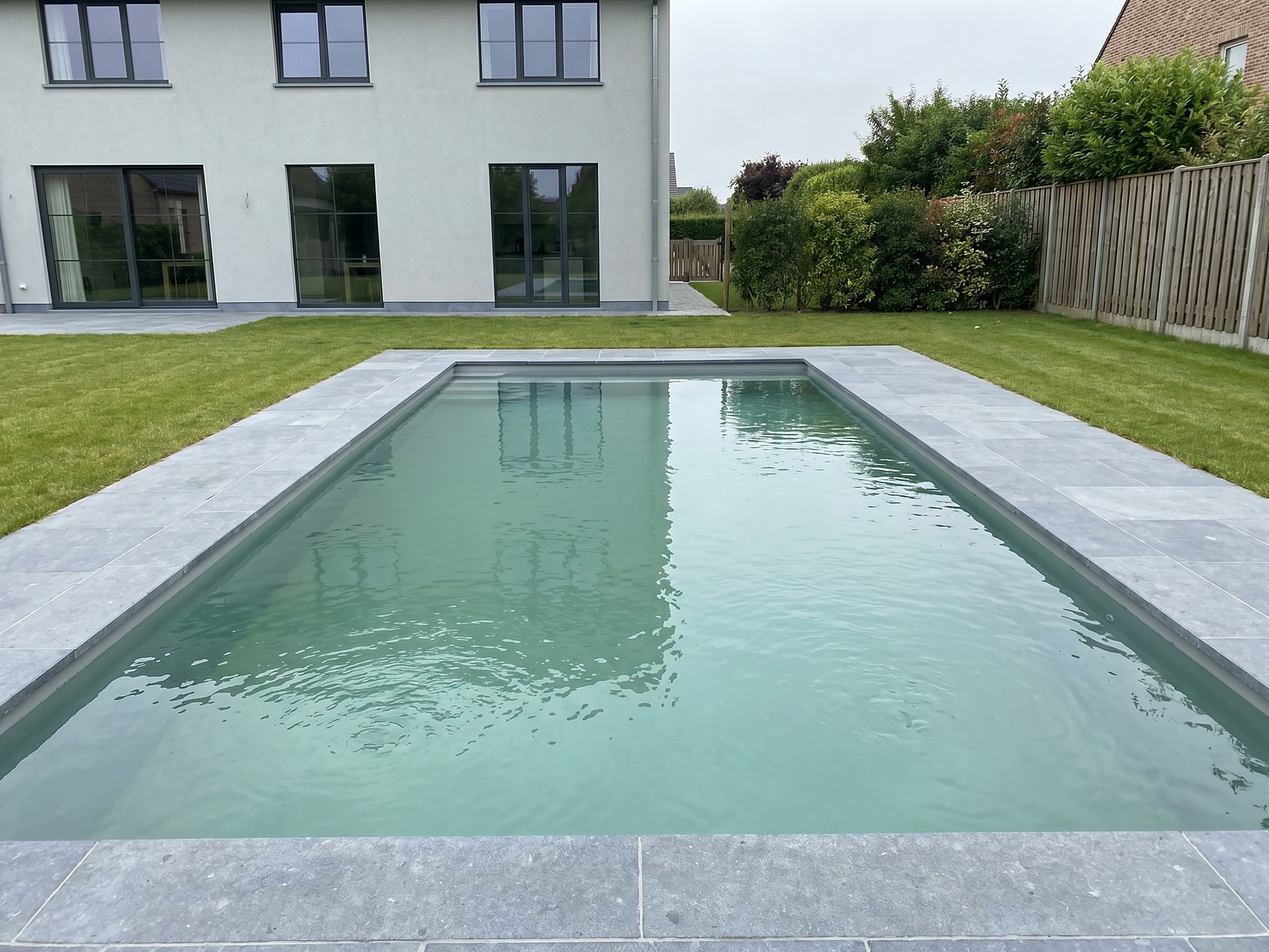
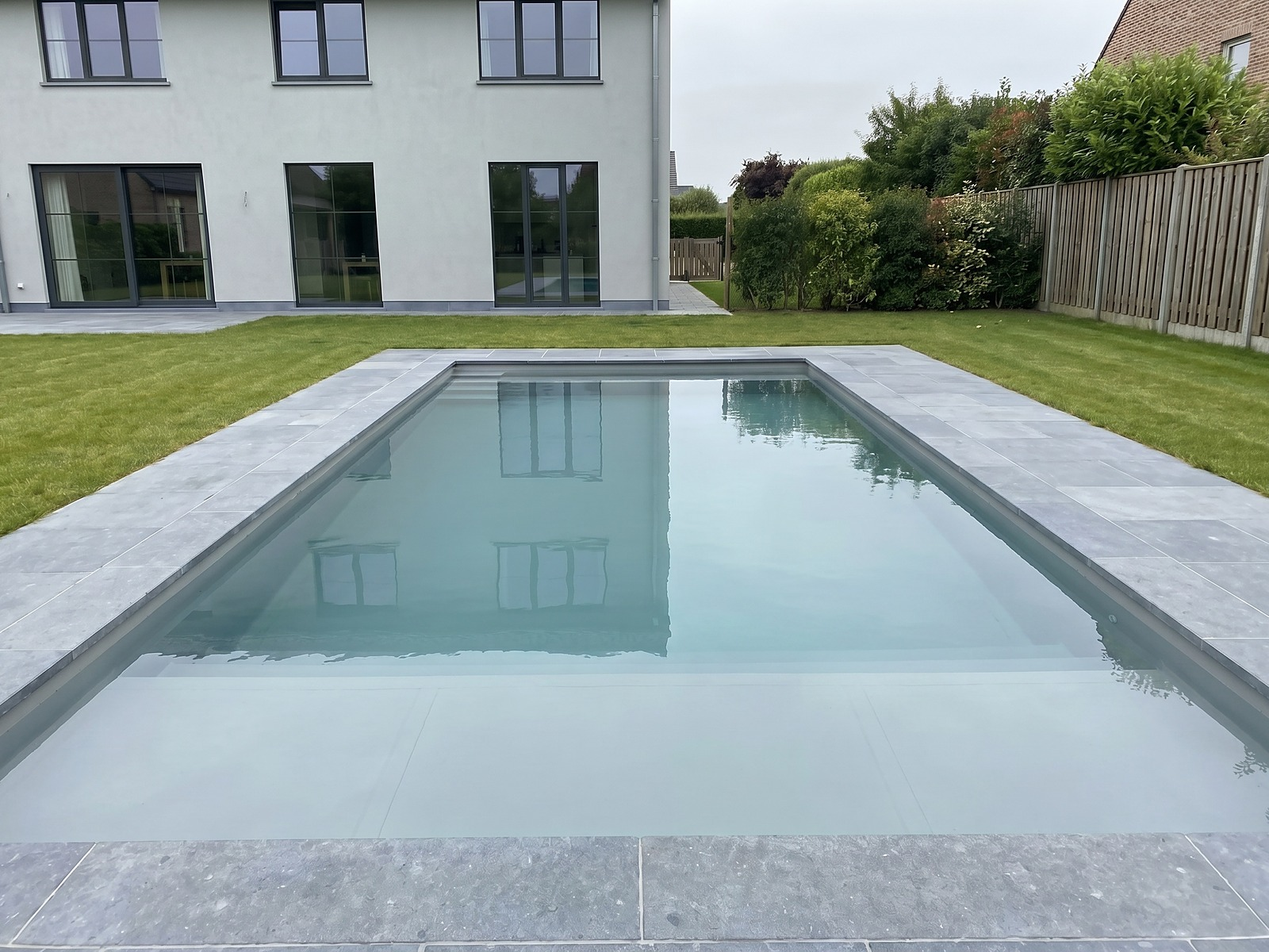
Zwembad-water fysisch correct + totaalrenovatie showpiece-keuken/woning + duidelijke typeWerk-opties op alle 14 LP's
- 6 onafhankelijke analyse-agents convergeerden: het melkig jade-groene water
  was DE AI-tell (grijze liner kan geen groen ondoorzichtig water geven);
  alle 5 gevulde zwembad-shots ge-edit naar zilver-grijsblauw semi-transparant
  water met zichtbare liner-bodem/lasnaden, kalm oppervlak, vaste liner-rand
- totaalrenovatie: kille hoekkeuken vervangen door moderne keuken (kwarts
  eiland, eiken kastenwand, visgraat) + grauwe straatgevel vervangen door
  verse gerenoveerde halfopen woning in vriendelijk licht
- typeWerk-opties op alle 14 dienst-LP's zelfverklarend en professioneel
  (geen jargon zoals 'Sleutel-op-de-deur'/'Sarkingisolatie'/'Impregneren' meer;
  vaste vangoptie 'Iets anders / advies nodig')

Claude-Session: https://claude.ai/code/session_01DeUzJB8V5WQiiC8RXp4aBB

diff --git a/src/pages/abbouw/lp/LpDienst.tsx b/src/pages/abbouw/lp/LpDienst.tsx
@@ -170,7 +170,7 @@ const DIENSTEN: Record<string, Dienst> = {
     gallery: [imgTrG1, imgTrG2, imgTrG3],
     reviews: [{ text: '"We hebben een oude rijwoning volledig laten strippen en heropbouwen. Eén aanspreekpunt voor alles, dat heeft ons enorm veel stress gescheeld. De prijs op de offerte klopte tot op het einde."', name: 'Geert Vandenbussche', role: 'Volledige renovatie rijwoning' }, { text: '"Onze woning uit de jaren zeventig is van binnen helemaal vernieuwd: elektriciteit, sanitair, isolatie en afwerking. Hun eigen ploeg deed het meeste zelf, dat merk je aan de afstemming."', name: 'Annelies Verstraeten', role: 'Totaalrenovatie woning' }, { text: '"Bij het plaatsbezoek kregen we de raad om niet alles ineens te doen, maar de keuken en badkamer een jaar later. Dat scheelde ons een lening. Beide fases liepen volgens de planning die op papier stond."', name: 'Bart Coppens', role: 'Gefaseerde renovatie' }],
     faq: [['Wat kost een totaalrenovatie?', 'Dat hangt sterk af van de staat van de woning, de oppervlakte en de gewenste afwerking. Een totaalrenovatie loopt al snel op, daarom werken wij met een vaste prijs op papier per post. Na het gratis plaatsbezoek weet u exact waar u aan toe bent, en die offerte is meteen uw factuur.'], ['Krijg ik echt één vaste prijs voor alles?', 'Ja. Wij maken één bindende offerte op voor de volledige renovatie, post per post. Wat op de offerte staat, betaalt u, ook als materiaalprijzen ondertussen stijgen. Komen er meerwerken op uw vraag bij, dan bespreken we die vooraf en legt u het vast voor we ze uitvoeren.'], ['Werken jullie met onderaannemers?', 'Het meeste werk doet onze eigen vaste ploeg. Voor zeer specifieke onderdelen werken we soms met vaste partners die we al jaren kennen, maar de coördinatie en het aanspreekpunt blijven altijd bij ons.'], ['Geldt het 6% btw-tarief voor mijn renovatie?', 'Is uw woning ouder dan 10 jaar en blijft ze hoofdzakelijk een privéwoning, dan valt de renovatie via de aannemer doorgaans onder 6% btw op materiaal en arbeid. Wij regelen het bijhorende papierwerk en bekijken bij het plaatsbezoek of u in aanmerking komt.'], ['Hoe lang duurt een totaalrenovatie?', 'Dat verschilt per project, van enkele weken voor een gedeeltelijke renovatie tot enkele maanden voor een volledige woning. Bij de offerte krijgt u een realistische planning, en één aanspreekpunt bewaakt die tijdens de werken.'], ['Kan ik tijdens de werken in mijn woning blijven wonen?', 'Bij een gedeeltelijke renovatie meestal wel. We werken dan per zone en schermen stof zoveel mogelijk af. Bij een volledige renovatie is het vaak praktischer om er even uit te zijn; dat bespreken we eerlijk op het plaatsbezoek, zodat u vooraf weet waar u aan toe bent.'], ['Werken jullie in mijn regio?', 'Wij werken in Mechelen, Antwerpen, Lier, Willebroek, Bornem, Sint-Niklaas en heel Vlaanderen. Bij het gratis plaatsbezoek bevestigen we meteen de planning.']],
-    typeWerkOpties: ['Volledige woning', 'Gedeeltelijke renovatie', 'Sleutel-op-de-deur', 'Anders'],
+    typeWerkOpties: ['Volledige woning renoveren', 'Enkele ruimtes renoveren', 'Renovatie met uitbreiding', 'Iets anders / advies nodig'],
     finalSub: 'Liever eerst overleggen over uw plannen? Bel gerust, dan denken we mee.',
     metaTitle: 'Totaalrenovatie aan vaste prijs | AB Bouw Groep',
     metaDesc: 'Uw woning volledig renoveren met één aannemer, één vaste prijs. Casco tot afwerking, eigen ploeg, 6% btw waar het kan. Gratis plaatsbezoek.',
@@ -205,7 +205,7 @@ const DIENSTEN: Record<string, Dienst> = {
     gallery: [imgBkG1, imgBkG2, imgBkG3],
     reviews: [{ text: '"Onze badkamer uit de jaren negentig volledig vernieuwd. Bad eruit, ruime inloopdouche erin. Eén ploeg voor alles, en de prijs klopte met de offerte."', name: 'Greet Janssens', role: 'Volledige badkamerrenovatie' }, { text: '"We twijfelden of we het bad zouden houden, maar ze toonden met de maten dat een douche de kleine ruimte een pak groter laat voelen. Achteraf blij dat we geluisterd hebben. Het toilet schoof mee een halve meter op, alles strak aangesloten."', name: 'Peter Maes', role: 'Bad vervangen door douche' }, { text: '"Vaste prijs vooraf, geen verrassingen achteraf. De leidingen zaten verouderd, ze hebben dat meteen mee opgelost. Heel tevreden."', name: 'Linda Verbeeck', role: 'Inloopdouche op maat' }],
     faq: [['Wat kost een badkamerrenovatie?', 'Dat hangt af van de oppervlakte, het sanitair, de tegels en de staat van de leidingen. Een complete badkamer ligt doorgaans tussen 9.000 en 18.000 euro. U krijgt een vaste prijs na het gratis plaatsbezoek; wat op de offerte staat, betaalt u.'], ['Hoe lang duurt een badkamerrenovatie?', 'Een volledige badkamer is doorgaans in twee tot drie weken klaar, afhankelijk van de omvang en de droogtijden. Bij het plaatsbezoek geven we u een realistische planning.'], ['Doen jullie alles zelf of met onderaannemers?', 'Alles met onze eigen vaste ploeg. Sanitair, tegelwerk en leidingen zitten in één hand, met één aanspreekpunt van begin tot oplevering.'], ['Kan ik mijn bad laten vervangen door een inloopdouche?', 'Ja, dat is een van de meest gevraagde renovaties. Wij halen het bad eruit, passen de leidingen en de afvoer aan en plaatsen een waterdichte inloopdouche.'], ['Betaal ik 6% of 21% btw?', 'Is uw woning ouder dan 10 jaar, dan valt de renovatie inclusief plaatsing meestal onder 6% btw. Wij bekijken of u in aanmerking komt en regelen het papierwerk.'], ['Kan ik mijn badkamer nog gebruiken tijdens de werken?', 'Bij een volledige renovatie ligt de badkamer een aantal dagen stil, van het uitbreken tot het sanitair terug aangesloten is. Heeft u maar één badkamer, zeg dat op het plaatsbezoek: we plannen het toilet en een werkende douche dan als eerste opnieuw aan, zodat u zo weinig mogelijk dagen zonder zit.'], ['Werken jullie in mijn regio?', 'Wij werken in Mechelen, Antwerpen, Lier, Willebroek, Bornem, Sint-Niklaas en heel Vlaanderen. Bij het gratis plaatsbezoek bevestigen we meteen de planning.']],
-    typeWerkOpties: ['Volledige badkamer', 'Inloopdouche', 'Bad vervangen door douche', 'Anders'],
+    typeWerkOpties: ['Volledige badkamer renoveren', 'Inloopdouche plaatsen', 'Bad vervangen door douche', 'Iets anders / advies nodig'],
     finalSub: 'Liever eerst iemand aan de lijn? Bel gerust.',
     metaTitle: 'Badkamerrenovatie aan vaste prijs | AB Bouw Groep',
     metaDesc: 'Badkamer laten renoveren in Vlaanderen: sanitair, tegels, douche en leidingen door één ploeg. Vaste prijs vooraf, 6% btw waar het kan. Gratis plaatsbezoek.',
@@ -240,7 +240,7 @@ const DIENSTEN: Record<string, Dienst> = {
     gallery: [imgTgG1, imgTgG2, imgTgG3],
     reviews: [{ text: '"Volledige woonkamer in grootformaat tegels. Kaarsrecht gelegd en strak gevoegd. Mooi resultaat."', name: 'Marc Hermans', role: 'Vloertegels woonkamer' }, { text: '"Badkamer volledig betegeld, vloer en wanden. Netjes afgewerkt rond de kranen en strak doorgevoegd. Heel tevreden."', name: 'Liesbeth Coninckx', role: 'Badkamer betegeld' }, { text: '"Goed advies over het legpatroon, ze hebben echt meegedacht. Keuken en hal in één lijn doorgelegd. Mooi gedaan."', name: 'Patrick Goossens', role: 'Keuken- en vloertegels' }],
     faq: [['Wat kost tegels leggen per m²?', 'Dat hangt af van het formaat, het legpatroon en de staat van de ondergrond. U krijgt een vaste prijs per m² na het gratis plaatsbezoek.'], ['Leggen jullie ook grootformaat en XXL-tegels?', 'Ja. Grote formaten lijmen we in volvlak, zodat er geen holle plekken onder de tegel zitten. Dat vraagt een vlakke ondergrond, die bereiden we correct voor.'], ['Moet de ondergrond eerst worden voorbereid?', 'Meestal wel. Een vlakke, draagkrachtige ondergrond is de basis voor een strak resultaat. Bij het plaatsbezoek beoordelen we of egaliseren nodig is.'], ['Geldt het 6% btw-tarief voor tegelwerken?', 'Bij een woning ouder dan 10 jaar valt tegelwerk incl. plaatsing en materiaal via ons onder het 6% renovatietarief. Bij nieuwbouw is dat 21%. Dat papierwerk regelen wij.'], ['Plaatsen jullie ook de tegels die ik zelf gekozen heb?', 'Ja. U kiest de tegels in de showroom, wij verzorgen de plaatsing. We adviseren gerust over formaat en legpatroon zodat alles strak uitkomt.'], ['Werken jullie in mijn regio?', 'Wij werken in Mechelen, Antwerpen, Lier, Willebroek, Bornem, Sint-Niklaas en heel Vlaanderen.']],
-    typeWerkOpties: ['Vloertegels', 'Wandtegels', 'Grootformaat / XXL', 'Anders'],
+    typeWerkOpties: ['Vloertegels leggen', 'Wandtegels plaatsen', 'Grootformaat tegels (60x60 of groter)', 'Iets anders / advies nodig'],
     finalSub: 'Praat met één van onze projectleiders.',
     metaTitle: 'Tegels laten leggen aan vaste prijs | AB Bouw Groep',
     metaDesc: 'Vloer- en wandtegels laten leggen in Vlaanderen, ook grootformaat. Vlak gelegd, strak gevoegd, vaste prijs per m². Eigen ploeg. Gratis plaatsbezoek.',
@@ -276,7 +276,7 @@ const DIENSTEN: Record<string, Dienst> = {
     gallery: [imgPlG1, imgPlG2, imgPlG3],
     reviews: [{ text: '"Heel het benedenverdiep opnieuw laten pleisteren. Strak en vlak, geen oneffenheden. En alles netjes afgeplakt voor ze begonnen."', name: 'Wim Heylen', role: 'Wanden en plafonds gepleisterd' }, { text: '"Voor de nieuwe slaapkamers een gyproc voorzetwand laten plaatsen en alles mee gepleisterd. Vaste prijs vooraf, geen verrassingen achteraf."', name: 'Annelies Maes', role: 'Gyproc + pleisterwerk' }, { text: '"Plafond in de living zat vol haarscheuren door de oude pleister. Ze raadden af om er gewoon over te schilderen en hebben het volledig uitgevlakt en herpleisterd. Een halfjaar later nog altijd geen barst te zien."', name: 'Geert Vermeiren', role: 'Plafond pleisteren' }],
     faq: [['Wat kost pleisterwerk per m²?', 'Dat hangt af van de oppervlakte, de staat van de ondergrond en de gewenste afwerking. U krijgt een vaste prijs per m² na het gratis plaatsbezoek. Wat op de offerte staat, betaalt u.'], ['Doen jullie ook gyproc en voorzetwanden?', 'Ja. Wij plaatsen gipsplaten, scheidingswanden en voorzetwanden, en pleisteren ze meteen af. Pleisterwerk en gyproc liggen zo bij dezelfde ploeg.'], ['Valt pleisterwerk onder 6% btw?', 'Bij een woning ouder dan 10 jaar valt pleisterwerk en gyproc onder het 6% renovatietarief. Bij nieuwbouw is dat 21%. Wij regelen het bijhorende papierwerk.'], ['Hoe lang moet de pleister drogen?', 'Vers pleisterwerk droogt doorgaans enkele weken, afhankelijk van de dikte en de ventilatie. Pas daarna schildert u best. Wij zeggen u bij de oplevering wanneer de muur schilderklaar is.'], ['Kan ik er meteen op schilderen?', 'Nee, laat de pleister eerst volledig uitdrogen. Daarna is de wand vlak en klaar voor de verf, zonder extra uitvlakwerk.'], ['Geeft pleisteren veel stof in een bewoond huis?', 'Pleisteren zelf is nat werk en stuift weinig; het stof komt vooral van het opruwen, schuren en uitkappen vooraf. Daarom dekken we de vloer en alles wat blijft staan af en zetten we de werkzone met folie dicht naar de rest van het huis. Op het einde van elke werkdag halen we het grove stof weg. Werken we in een bewoonde woning, ruim de kamer dan zoveel mogelijk leeg; dan blijft het stof beperkt tot die ene ruimte.'], ['Werken jullie in mijn regio?', 'Wij werken in Mechelen, Antwerpen, Lier, Willebroek, Bornem, Sint-Niklaas en heel Vlaanderen.']],
-    typeWerkOpties: ['Wanden pleisteren', 'Plafond pleisteren', 'Gyproc / voorzetwand', 'Anders'],
+    typeWerkOpties: ['Wanden pleisteren', 'Plafond pleisteren', 'Gyproc- of voorzetwand plaatsen', 'Iets anders / advies nodig'],
     finalSub: 'Praat met één van onze projectleiders.',
     metaTitle: 'Pleisterwerk & gyproc, vaste prijs | AB Bouw Groep',
     metaDesc: 'Pleisterwerk en gyproc in Vlaanderen. Wanden en plafonds vlak afgewerkt, vaste prijs per m², eigen ploeg. 6% btw waar het kan. Gratis plaatsbezoek.',
@@ -311,7 +311,7 @@ const DIENSTEN: Record<string, Dienst> = {
     gallery: [imgTeG1, imgTeG2, imgTeG3],
     reviews: [{ text: '"Nieuw terras in keramische tegels, mooi vlak. Na een regenbui staat er nergens nog een plas. Proper opgeleverd."', name: 'Dries Luyckx', role: 'Keramisch terras' }, { text: '"Terras in blauwsteen laten aanleggen. Mooi vlak gelegd en het water loopt netjes weg. Heel content met het resultaat."', name: 'Nadine Peeters', role: 'Natuursteen terras' }, { text: '"Oud terras vervangen door een houten terras. Strak gelegd en klaar binnen de afgesproken week. Heel tevreden."', name: 'Wim Claessens', role: 'Houten terras' }],
     faq: [['Wat kost een terras aanleggen per m²?', 'Dat hangt af van het materiaal, de grootte, de ondergrond en de afwatering. U krijgt een vaste prijs per m² na het gratis plaatsbezoek.'], ['Welk materiaal kies ik best?', 'Keramiek hoeft u enkel te dweilen, natuursteen leeft mee met uw gevel, klinkers passen bij een landelijke tuin en hout vraagt jaarlijks een olie-beurt. Bij het plaatsbezoek bekijken we samen wat bij uw tuin en budget past.'], ['Leggen jullie ook de fundering en afwatering?', 'Ja. Wij verzorgen het grondwerk, de fundering en het juiste afschot, zodat uw terras vlak ligt en regenwater goed wegloopt.'], ['Kunnen jullie mijn oude terras vervangen?', 'Ja. We breken het oude terras uit, bereiden de ondergrond opnieuw voor en leggen uw nieuwe terras aan.'], ['Geldt het 6% btw-tarief voor mijn terras?', 'Bij een woning ouder dan 10 jaar valt het terras meestal onder 6% btw op arbeid en materiaal. Bij nieuwbouw of een woning jonger dan 10 jaar is dat 21%. We bekijken het samen.'], ['Wat gebeurt er met de uitgegraven grond en het puin?', 'Bij het uitgraven en bij het uitbreken van een oud terras komen grond en puin vrij. Wij voeren dat zelf af; de afvoer en de containers zitten in de offerteprijs. Tijdens de werken stapelen we de materialen op één plek in de tuin, en bij de oplevering harken we de werkzone proper aan.'], ['Werken jullie in mijn regio?', 'Wij werken in Mechelen, Antwerpen, Lier, Willebroek, Bornem, Sint-Niklaas en heel Vlaanderen.']],
-    typeWerkOpties: ['Keramisch terras', 'Natuursteen terras', 'Terras in klinkers', 'Houten terras'],
+    typeWerkOpties: ['Keramisch terras', 'Terras in natuursteen', 'Terras in klinkers of hout', 'Iets anders / advies nodig'],
     finalSub: 'Praat met één van onze projectleiders.',
     metaTitle: 'Terras aanleggen — vaste prijs | AB Bouw Groep',
     metaDesc: 'Terras aanleggen in keramiek, natuursteen, klinkers of hout. Correcte fundering en afwatering. Vaste prijs per m², eigen ploeg. Gratis plaatsbezoek.',
@@ -346,7 +346,7 @@ const DIENSTEN: Record<string, Dienst> = {
     gallery: [imgOpG1, imgOpG2, imgOpG3],
     reviews: [{ text: '"Onze oude oprit was helemaal verzakt. Alles opnieuw aangelegd en twee winters later ligt er nog geen klinker scheef. Top."', name: 'Bram Verschueren', role: 'Oprit vernieuwd' }, { text: '"Voor waterdoorlatende klinkers gekozen op hun advies. Geen plassen meer en regenwater zakt gewoon weg. Vaste prijs vooraf, nette ploeg."', name: 'Annelies Peeters', role: 'Waterdoorlatende oprit' }, { text: '"Nieuwe oprit in betonklinkers, strak gelegd. Een groot verschil met de oude die overal verzakt was. Heel tevreden."', name: 'Patrick Wouters', role: 'Oprit in betonklinkers' }],
     faq: [['Wat kost een oprit aanleggen?', 'Dat hangt af van de oppervlakte, het materiaal en de bestaande ondergrond. U krijgt een vaste prijs voor de volledige oprit na het gratis plaatsbezoek, fundering en afboording inbegrepen.'], ['Klinkers of waterdoorlatende verharding?', 'Klinkers en betonklinkers zijn strak en onderhoudsarm. Waterdoorlatende verharding laat regenwater in de bodem zakken, wat wateroverlast beperkt. Bij het plaatsbezoek adviseren we wat past bij uw oprit en ondergrond.'], ['Hoe lang gaat een oprit mee?', 'Met een goede fundering en afwatering gaat een oprit doorgaans decennia mee zonder te verzakken. De onderbouw is daarbij belangrijker dan de klinker zelf.'], ['Verzakt een oprit na verloop van tijd?', 'Niet als de fundering klopt. Verzakking komt bijna altijd door een te dunne of slecht aangereden onderbouw. Daarom besteden wij daar de meeste aandacht aan.'], ['Betaal ik 6 of 21% btw op een oprit?', 'Een losstaande oprit valt meestal onder 21% btw. Maakt de oprit deel uit van een renovatie van een woning ouder dan 10 jaar, dan kan 6% gelden. Wij bekijken het tarief samen op het plaatsbezoek.'], ['Kan ik mijn auto kwijt terwijl de oprit openligt?', 'Tijdens het uitgraven en de eerste dagen kunt u niet over de oprit rijden, en pas helemaal op het einde mag u opnieuw op de verse klinkers. Reken op enkele dagen waarin u de wagen elders zet, op straat of bij een buur. We bespreken de planning vooraf, zodat u weet welke dagen het zijn en uw auto niet ingesloten raakt.'], ['Werken jullie in mijn regio?', 'Wij werken in Mechelen, Antwerpen, Lier, Willebroek, Bornem, Sint-Niklaas en heel Vlaanderen.']],
-    typeWerkOpties: ['Nieuwe oprit', 'Oprit vernieuwen', 'Waterdoorlatend', 'Anders'],
+    typeWerkOpties: ['Nieuwe oprit aanleggen', 'Bestaande oprit vernieuwen', 'Waterdoorlatende oprit', 'Iets anders / advies nodig'],
     finalSub: 'Praat met één van onze projectleiders.',
     metaTitle: 'Oprit aanleggen — vaste prijs | AB Bouw Groep',
     metaDesc: 'Oprit aanleggen of vernieuwen in Vlaanderen: klinkers, betonklinkers of waterdoorlatend, stabiele fundering. Vaste prijs, eigen ploeg. Gratis plaatsbezoek.',
@@ -381,7 +381,7 @@ const DIENSTEN: Record<string, Dienst> = {
     gallery: [imgZwG1, imgZwG2, imgZwG3],
     reviews: [{ text: '"Inbouwzwembad in beton in onze tuin. Graafwerk, bad en terras errond, alles door dezelfde ploeg. Netjes geregeld van begin tot eind."', name: 'Koen De Coninck', role: 'Betonnen inbouwzwembad' }, { text: '"Wij twijfelden tussen beton en polyester. Eerlijk advies dat een polyester bad voor onze tuin volstond, scheelde flink in prijs. Netjes geplaatst."', name: 'Veerle Cools', role: 'Polyester zwembad' }, { text: '"Vaste prijs voor het hele project vooraf, van uitgraving tot terras. Geen verrassingen achteraf, werf elke dag proper. Heel tevreden."', name: 'Filip Smets', role: 'Zwembad met terras' }],
     faq: [['Wat kost een zwembad aanleggen?', 'Dat hangt af van de afmetingen, het type bad (beton of polyester), de grondsoort en de afwerking errond. Een inbouwzwembad is een groot project; u krijgt een vaste prijs voor het volledige werk na het gratis plaatsbezoek.'], ['Beton of polyester: wat kies ik?', 'Een betonnen bad is volledig op maat en in elke vorm mogelijk. Een polyester bad komt in één stuk en is sneller geplaatst, maar in vaste modellen. Bij het plaatsbezoek adviseren we eerlijk wat past bij uw tuin en budget.'], ['Doen jullie ook het graafwerk en het terras?', 'Ja. Wij verzorgen het volledige project met eigen ploeg: uitgraving, fundering, leidingen, het bad zelf en de afwerking met boordstenen en terras errond.'], ['Hoe lang duurt de aanleg?', 'Dat verschilt per project. Een polyester bad gaat sneller dan een gestort betonnen bad, en de afwerking errond telt mee. Bij de offerte krijgt u een realistische planning op papier.'], ['Welk btw-tarief geldt er?', 'Voor een nieuw zwembad is dat niet automatisch het verlaagde tarief. Bij het plaatsbezoek bekijken we welk btw-tarief in uw situatie van toepassing is, zodat u vooraf weet waar u aan toe bent.'], ['Moet er een graafmachine door mijn tuin, en wat met de schade?', 'Voor de uitgraving moet er inderdaad een kraan tot bij de plek van het bad. Op het plaatsbezoek kijken we eerst hoe we binnen geraken: langs welke kant, of er een poort of haag tijdelijk weg moet, en of we het tuinpad moeten beschermen. Het rijtracé en de stockplek voor de grond rekenen we als onbruikbaar voor de duur van de werken; gazon of beplanting daar herstellen we nadien niet automatisch, dus wat u zelf wil sparen, spreken we vooraf af.'], ['Werken jullie in mijn regio?', 'Wij werken in Mechelen, Antwerpen, Lier, Willebroek, Bornem, Sint-Niklaas en heel Vlaanderen.']],
-    typeWerkOpties: ['Betonnen zwembad', 'Polyester zwembad', 'Zwembad met terras', 'Anders'],
+    typeWerkOpties: ['Betonnen zwembad (op maat)', 'Polyester zwembad (monoblok)', 'Zwembad met terras errond', 'Iets anders / advies nodig'],
     finalSub: 'Vragen over beton, polyester of de planning? Bel ons even.',
     metaTitle: 'Zwembad laten aanleggen aan vaste prijs | AB Bouw Groep',
     metaDesc: 'Inbouwzwembad laten aanleggen in Vlaanderen: beton of polyester, graafwerk tot afwerking, terras errond. Vaste prijs, eigen ploeg. Gratis plaatsbezoek.',
@@ -444,7 +444,7 @@ const DIENSTEN: Record<string, Dienst> = {
       ['Krijg ik garantie op de plaatsing?', 'Ja. U krijgt 10 jaar garantie op de waterdichtheid van de plaatsing, bovenop de fabrieksgarantie van Velux op het raam zelf.'],
       ['Werken jullie in mijn regio?', 'Wij werken in heel Vlaanderen, met de meeste werven rond Antwerpen, Mechelen en Lier. Bij de gratis opmeting bevestigen we meteen de planning.'],
     ],
-    typeWerkOpties: ['Nieuw dakraam', 'Vervanging', 'Meerdere ramen', 'Anders'],
+    typeWerkOpties: ['Nieuw dakraam plaatsen', 'Bestaand dakraam vervangen', 'Meerdere dakramen', 'Iets anders / advies nodig'],
     finalSub: 'Liever eerst iemand aan de lijn? Bel gerust.',
     metaTitle: 'Velux dakraam laten plaatsen aan vaste prijs | AB Bouw Groep',
     metaDesc: 'Velux dakramen plaatsen en vervangen in Vlaanderen. Vaste prijs incl. plaatsing en binnenafwerking, 10 jaar garantie op waterdichtheid. Gratis opmeting.',
@@ -504,7 +504,7 @@ const DIENSTEN: Record<string, Dienst> = {
       ['Hoe lang blijft mijn gevel proper?', 'Met een impregnatie blijft uw gevel jaren langer schoon. Zonder hangt het af van de ligging en de begroeiing rond de woning.'],
       ['Werken jullie in mijn regio?', 'Wij werken in Mechelen, Antwerpen, Lier, Willebroek en heel Vlaanderen.'],
     ],
-    typeWerkOpties: ['Gevelreiniging', 'Impregneren', 'Mosbestrijding', 'Anders'],
+    typeWerkOpties: ['Gevel laten reinigen', 'Reinigen en impregneren (beschermlaag)', 'Mos en groene aanslag verwijderen', 'Iets anders / advies nodig'],
     finalSub: 'Praat met één van onze projectleiders.',
     metaTitle: 'Gevelreiniging — zonder schade aan uw gevel | AB Bouw Groep',
     metaDesc: 'Professionele gevelreiniging in Vlaanderen. Juiste methode per gevelsteen, geen schade aan de voegen, optioneel impregneren. Gratis plaatsbezoek.',
@@ -578,7 +578,7 @@ const DIENSTEN: Record<string, Dienst> = {
       ['Moet de hele gevel hervoegd worden?', 'Niet altijd. Soms volstaat een deel van de gevel. Bij het plaatsbezoek bekijken we wat echt nodig is.'],
       ['Werken jullie in mijn regio?', 'Wij werken in Mechelen, Antwerpen, Lier, Willebroek en heel Vlaanderen.'],
     ],
-    typeWerkOpties: ['Volledige gevel', 'Gedeeltelijk', 'Herstel voegen', 'Anders'],
+    typeWerkOpties: ['Volledige gevel hervoegen', 'Deel van de gevel hervoegen', 'Beschadigde voegen herstellen', 'Iets anders / advies nodig'],
     finalSub: 'Praat met één van onze projectleiders.',
     metaTitle: 'Gevel hervoegen — uitslijpen en voegen | AB Bouw Groep',
     metaDesc: 'Gevel laten hervoegen in Vlaanderen. Oude voegen uitslijpen, opnieuw voegen in de juiste kleur. Vaste prijs per m², eigen ploeg. Gratis plaatsbezoek.',
@@ -641,7 +641,7 @@ const DIENSTEN: Record<string, Dienst> = {
       ['Hoeveel bespaar ik?', 'U voelt het vooral in de stookkost: een geïsoleerd dak houdt de warmte binnen die nu langs boven verdwijnt. Bij de offerte krijgt u de verwachte EPC-winst op papier.'],
       ['Werken jullie in mijn regio?', 'Wij werken in Mechelen, Antwerpen, Lier, Willebroek en heel Vlaanderen.'],
     ],
-    typeWerkOpties: ['Sarkingisolatie', 'Tussen de balken', 'Zoldervloer', 'Anders'],
+    typeWerkOpties: ['Dak isoleren langs buiten (sarking)', 'Dak isoleren langs binnen', 'Zoldervloer isoleren', 'Iets anders / advies nodig'],
     finalSub: 'Vragen over sarking, premies of planning? Bel ons even.',
     metaTitle: 'Dakisolatie laten plaatsen met vaste prijs | AB Bouw Groep',
     metaDesc: 'Dakisolatie in Vlaanderen: sarking, tussen de balken of zoldervloer. Lager EPC, lagere stookkost, 6% btw waar het kan. Vaste prijs en gratis dakinspectie.',
@@ -702,7 +702,7 @@ const DIENSTEN: Record<string, Dienst> = {
       ['Kan de isolatie mee vernieuwd worden?', 'Ja. Bij een nieuw of vernieuwd plat dak isoleren we meteen volgens de huidige normen.'],
       ['Werken jullie in mijn regio?', 'Wij werken in heel Vlaanderen, met de meeste werven rond Antwerpen, Mechelen en Lier. Bij het gratis plaatsbezoek bevestigen we meteen de planning.'],
     ],
-    typeWerkOpties: ['Nieuw plat dak', 'Renovatie', 'Met isolatie', 'Anders'],
+    typeWerkOpties: ['Nieuw plat dak plaatsen', 'Bestaand plat dak vernieuwen', 'Plat dak vernieuwen met isolatie', 'Iets anders / advies nodig'],
     finalSub: 'Twijfelt u tussen EPDM en roofing? Bel ons, dan denken we mee.',
     metaTitle: 'Plat dak laten leggen — EPDM of roofing | AB Bouw Groep',
     metaDesc: 'Plat dak voor aanbouw, garage of bijgebouw: EPDM naadloos of bewezen roofing, geïsoleerd en met 10 jaar garantie op de waterdichtheid. Gratis plaatsbezoek.',
@@ -763,7 +763,7 @@ const DIENSTEN: Record<string, Dienst> = {
       ['Is crepi onderhoudsarm?', 'Ja. Een goed aangebrachte crepi blijft jaren mooi en vraagt weinig onderhoud. Optioneel kan een vuilwerende afwerking.'],
       ['Werken jullie in mijn regio?', 'Wij werken in Mechelen, Antwerpen, Lier, Willebroek en heel Vlaanderen.'],
     ],
-    typeWerkOpties: ['Crepi op gevel', 'Sierpleister', 'Crepi op isolatie', 'Anders'],
+    typeWerkOpties: ['Crepi op de gevel', 'Crepi met gevelisolatie', 'Bestaande crepi vernieuwen', 'Iets anders / advies nodig'],
     finalSub: 'Praat met één van onze projectleiders.',
     metaTitle: 'Crepi laten plaatsen — vaste prijs | AB Bouw Groep',
     metaDesc: 'Crepi en sierpleister in Vlaanderen, in elke kleur. Egaal aangebracht op gevel of buitenisolatie. Vaste prijs per m², eigen ploeg. Gratis plaatsbezoek.',
@@ -817,7 +817,7 @@ const DIENSTEN: Record<string, Dienst> = {
       ['Op welke ondergrond kan het?', 'Op de meeste gezonde gevels en op isolatieplaten. Wij beoordelen de ondergrond bij het plaatsbezoek.'],
       ['Werken jullie in mijn regio?', 'Wij werken in Mechelen, Antwerpen, Lier, Willebroek en heel Vlaanderen.'],
     ],
-    typeWerkOpties: ['Steenstrips op gevel', 'Op isolatie', 'Gevelbekleding', 'Anders'],
+    typeWerkOpties: ['Steenstrips op de gevel', 'Steenstrips met gevelisolatie', 'Andere gevelbekleding', 'Iets anders / advies nodig'],
     finalSub: 'Praat met één van onze projectleiders.',
     metaTitle: 'Steenstrips laten plaatsen — baksteen-look | AB Bouw Groep',
     metaDesc: 'Steenstrips in Vlaanderen: authentieke baksteen-look, kaarsrecht gevoegd, ideaal op buitenisolatie. Vaste prijs per m², eigen ploeg. Gratis plaatsbezoek.',
